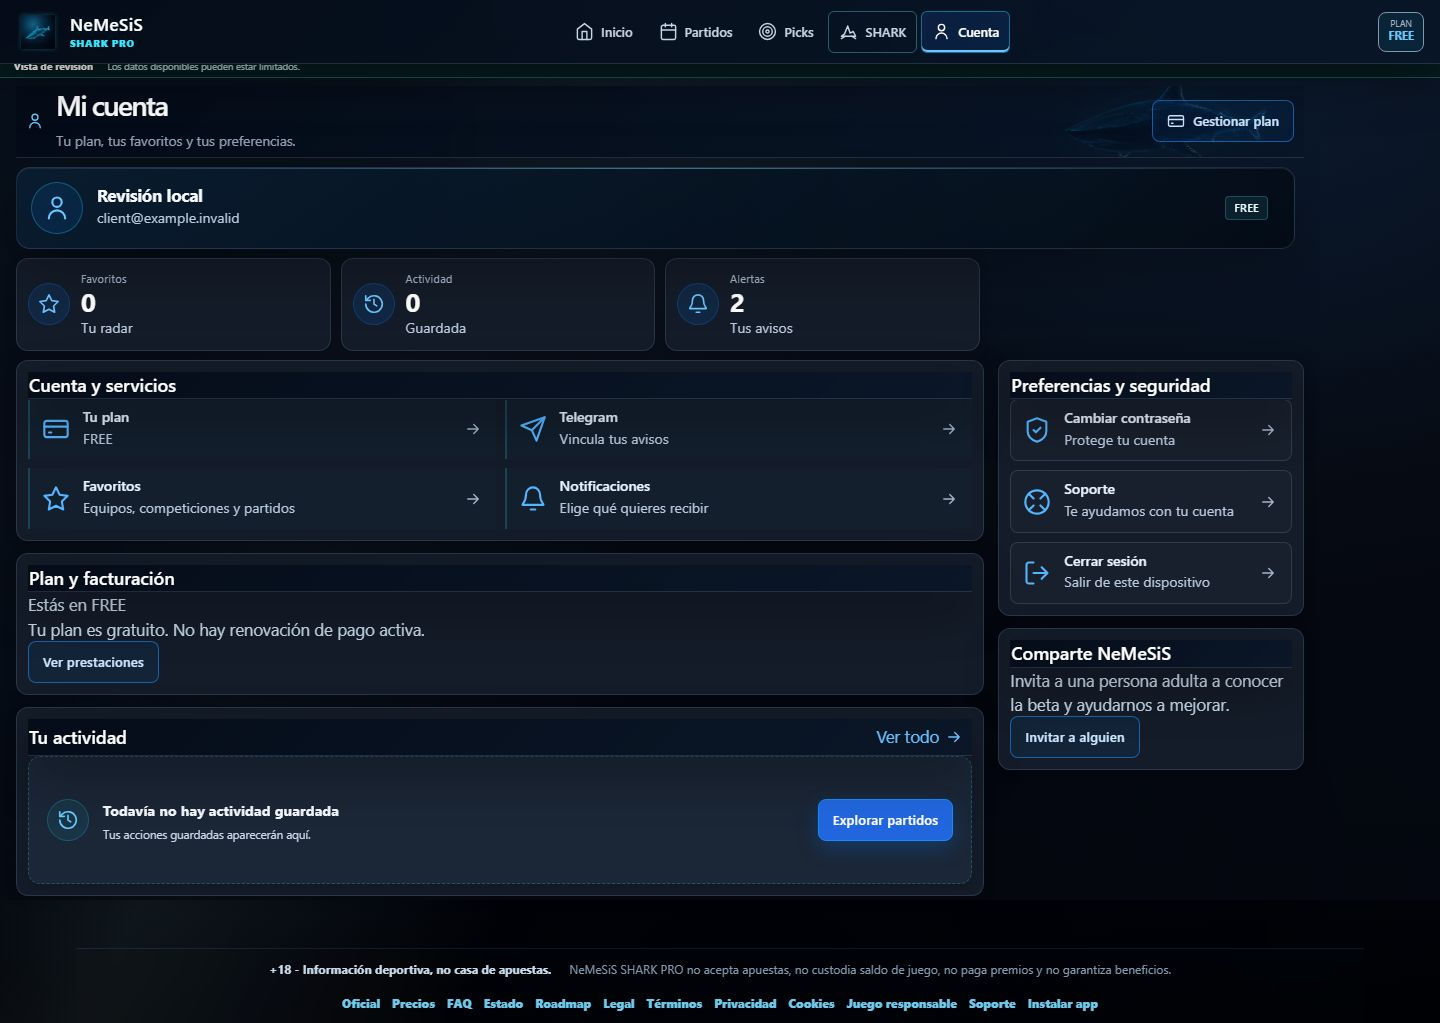
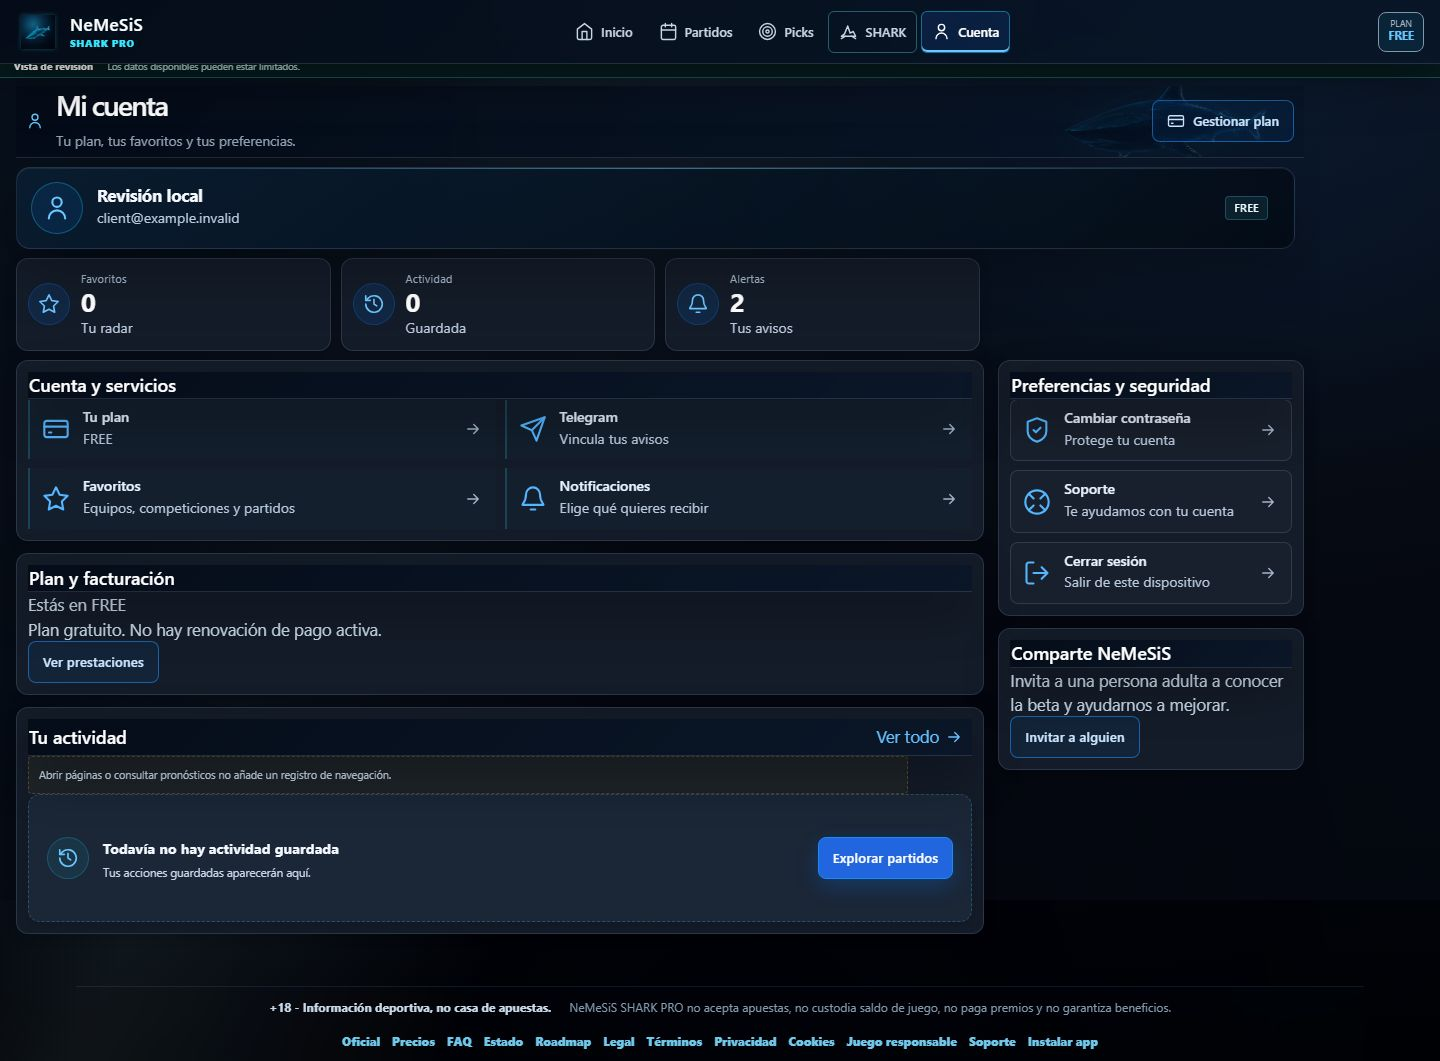
Preserve runtime capability probes and align presentation regression contracts

diff --git a/templates/base.html b/templates/base.html
@@ -71,6 +71,9 @@
 {% set show_mobile_bottom_nav = not is_admin_surface %}
 {% set show_floating_shark = false %}
 {# V929 navigation integrity route recovery #}
+{# Historical capability keys retained for read-only runtime probes; CSS activation belongs exclusively to the Core.
+data-v775-shell data-v776-shell data-v777-shell data-v778-shell data-v790-shell data-v792-shell data-v793-shell data-v795-shell data-v796-shell data-v797-shell data-v798-shell data-v799-shell data-v800-shell data-v801-shell data-v802-shell data-v806-shell data-v807-shell data-v809-shell data-v810-shell data-v811-shell data-v812-shell data-v813-shell data-v814-shell data-v815-shell data-v816-shell data-v817-shell data-v818-shell data-v819-shell data-v820-shell data-v821-shell data-v822-shell data-v823-shell data-v824-shell data-v825-shell data-v826-shell data-v827-shell data-v828-shell data-v829-shell data-v830-shell data-v832-shell data-v833-shell data-v836-shell data-v837-shell data-v838-shell data-v839-shell data-v840-shell data-v841-shell data-v842-shell data-v843-shell data-v844-shell data-v845-shell data-v847-shell data-v848-shell data-v849-shell data-v850-shell data-v851-shell data-v852-shell data-v853-shell data-v854-shell data-v855-shell data-v856-shell data-v857-shell data-v858-shell data-v859-shell data-v860-shell data-v861-shell data-v862-shell data-v863-shell data-v864-shell data-v865-shell data-v866-shell data-v867-shell data-v868-shell data-v869-shell data-v870-shell data-v871-shell data-v872-shell data-v873-shell data-v874-shell data-v875-shell data-v876-shell data-v878-shell data-v879-shell data-v880-shell data-v881-shell data-v882-shell data-v883-shell data-v884-shell data-v885-shell data-v886-shell data-v887-shell data-v888-shell data-v888-autopilot-shell data-v897-shell data-v898-shell data-v899-shell data-v900-shell data-v901-shell data-v902-shell data-v902b-shell data-v903-shell data-v904-shell data-v905-shell data-v906-shell data-v906b-shell data-v907-shell data-v908-shell data-v909-shell data-v910-shell data-v911-shell data-v911-video-admin-fix data-v912-shell data-v912-video-admin-fix data-v913-shell data-v913-browser-qa-truth data-v915-workforce-shell data-v938-operations-shell
+#}
 <body class="ns-app ns-tier-{{ _visual_tier }}{% if current_user %} ns-authenticated{% else %} ns-public{% endif %}{% if is_admin_surface %} ns-admin{% endif %}" data-ns-route="{{ request.path }}" data-ns-plan="{{ _tier_label }}" data-v928-shell="true" data-ns-design="core" data-growth-authenticated="{{ 'true' if current_user and current_user.role != 'ADMIN' else 'false' }}">
   {% if local_safe_mode %}
   <div class="nemesis-local-safe-banner" data-local-safe-banner="true" role="status">

diff --git a/templates/account_center.html b/templates/account_center.html
@@ -26,7 +26,7 @@
         {{ section_header('Cuenta y servicios') }}
         <div class="v933-quick-actions ns16-account-actions">
           {{ quick_action('Tu plan', plan, '/membresias', 'plan', 'gold') }}
-          {{ quick_action('Telegram', 'Vinculado' if telegram.get('linked') else 'Vincula tus avisos', '/telegram', 'telegram') }}
+          {{ quick_action('Telegram', ('Vinculado a @' ~ telegram.get('username')) if telegram.get('linked') and telegram.get('username') else ('Vinculado' if telegram.get('linked') else 'Vincula tus avisos'), '/telegram', 'telegram') }}
           {{ quick_action('Favoritos', 'Equipos, competiciones y partidos', '/favoritos', 'star') }}
           {{ quick_action('Notificaciones', 'Elige qué quieres recibir', '/notificaciones', 'bell') }}
         </div>
@@ -34,8 +34,8 @@
       <section class="v933-panel">
         {{ section_header('Plan y facturación') }}
         <p>{{ client_message(membership.get('headline'), 'Consulta lo que incluye tu plan.') }}</p>
-        {% if plan == 'FREE' %}<p>Tu plan es gratuito. No hay renovación de pago activa.</p>
-        {% elif admin_granted or membership_source == 'admin_manual' %}<p>Tienes un acceso concedido, sin renovación automática de pago.</p>
+        {% if plan == 'FREE' %}<p>Plan gratuito. No hay renovación de pago activa.</p>
+        {% elif admin_granted or membership_source == 'admin_manual' %}<p>Acceso concedido, sin renovación automática de pago.</p>
         {% elif stripe_status %}<p>Suscripción: <strong>{{ stripe_label }}</strong>.</p><p>Renovación: {{ pay.stripe_current_period_end|madrid_datetime_label if pay.stripe_current_period_end else 'Fecha pendiente de confirmar' }}.</p>
         {% else %}<p>No hay una renovación automática asociada a esta cuenta.</p>{% endif %}
         {% if plan != 'FREE' and not admin_granted and membership_source != 'admin_manual' and stripe_status and pay.portal_ready %}
@@ -44,6 +44,7 @@
       </section>
       <section class="v933-panel">
         {{ section_header('Tu actividad', '', 'Ver todo', '/actividad') }}
+        <p class="v933-safe-copy">Abrir páginas o consultar pronósticos no añade un registro de navegación.</p>
         {% if activity %}<div class="v933-truth-list">{% for item in activity[:7] %}<div><span>{{ item.created_at|madrid_datetime_label if item.created_at else 'Reciente' }}</span><strong>{{ client_message(item.label, 'Actividad guardada') }}</strong></div>{% endfor %}</div>
         {% else %}{{ empty_state('Todavía no hay actividad guardada', 'Tus acciones guardadas aparecerán aquí.', 'Explorar partidos', '/calendario', 'history') }}{% endif %}
       </section>

diff --git a/tests/test_design02_calendar_presentation.py b/tests/test_design02_calendar_presentation.py
@@ -124,7 +124,7 @@ def test_mobile_primary_navigation_keeps_shark_and_results(app_module, authentic
 
 def test_sports_styles_use_canonical_sizes_and_version_both_stylesheets():
     root = Path(__file__).resolve().parents[1]
-    css = (root / 'static/v933-product.css').read_text(encoding='utf-8')
+    css = (root / 'static/design-system.css').read_text(encoding='utf-8')
     base = (root / 'templates/base.html').read_text(encoding='utf-8')
     assert 'font-size: var(--score-size)' in css
     assert 'font-size: var(--score-size-compact)' in css
@@ -133,9 +133,10 @@ def test_sports_styles_use_canonical_sizes_and_version_both_stylesheets():
     bundle_link = next(line for line in base.splitlines() if "filename='product-system.css'" in line)
     assert 'data-product-system="premium-1"' in bundle_link
     sources = (root / 'tools/visual_css_sources.json').read_text(encoding='utf-8')
-    assert sources.index('v933_design_tokens.css') < sources.index('v933-product.css')
+    assert sources.index('design-tokens.css') < sources.index('design-system.css')
+    assert 'v933_design_tokens.css' not in sources and 'v933-product.css' not in sources
     realtime_script = next(line for line in base.splitlines() if "filename='v934-realtime.js'" in line)
-    assert '-design-02-r5-1' in realtime_script
+    assert '-client-core-2-directo-inplace-1' in realtime_script
 
 
 @pytest.mark.parametrize('route', ['/calendar', '/calendario', '/calendario-global', '/partidos', '/partidos/calendario'])
@@ -152,7 +153,7 @@ def test_calendar_aliases_share_visible_navigation_state(app_module, route, surf
 
 def test_client_copy_reduction_does_not_hide_temporal_container():
     root = Path(__file__).resolve().parents[1]
-    css = (root / 'static/v933-product.css').read_text(encoding='utf-8')
+    css = (root / 'static/design-system.css').read_text(encoding='utf-8')
     for owner in ('sports-priority-home', 'ns16-home', 'ns16-live', 'v933-calendar-board'):
         rule = next(line for line in css.splitlines() if line.startswith('.' + owner + ' .v933-match-card :is('))
         assert '.v937-confidence-badge' in rule

diff --git a/tests/test_v944_match_center_foundation.py b/tests/test_v944_match_center_foundation.py
@@ -194,8 +194,8 @@ def test_match_detail_page_uses_one_detail_load_and_no_legacy_side_effects(
     assert 'data-match-contract="MATCH-CENTER-LIFECYCLE-STORY-V1"' in html
     assert 'data-v944-match-center-foundation="phase-1"' in html
     assert 'data-sports-domain-model="SPORTS-CORE-UNIFIED-DOMAIN-MODEL-V1"' in html
-    assert 'data-match-region="evidence-quality"' in html
-    assert 'data-match-transparency="score"' in html
+    assert 'data-match-region="evidence-quality"' not in html
+    assert 'data-match-transparency="score"' not in html
     assert html.count("data-match-component=") == len(MATCH_CENTER_COMPONENTS)
     assert "v933-match-hero" not in html
     assert "v933-detail-tabs" not in html
@@ -292,7 +292,7 @@ def test_v944_jinja_contracts_are_valid_and_responsive():
     assert 'data-timeline-event-contract=' in components
     assert 'data-sports-domain-model="unified-v1"' in components
     assert 'data-postmatch-factual-summary=' in components
-    assert 'Resumen factual construido con datos confirmados del partido; sin narración generativa.' in components
+    assert 'Resumen basado en la información confirmada del partido.' in components
     assert all(name in components for name in MATCH_CENTER_COMPONENTS)
     assert all(f"'{state}'" in components for state in CANONICAL_COMPONENT_STATES)
     assert "@media (max-width: 1080px)" in css

diff --git a/tests/test_product_language_clarity.py b/tests/test_product_language_clarity.py
@@ -306,7 +306,7 @@ def test_client_telegram_never_promises_delivery_when_channel_is_not_ready():
     assert "Contenido previsto para tu plan" in text
     assert "Pronósticos premium" not in text
     assert "Pronósticos disponibles" in text
-    assert "Esta pantalla no envía mensajes por sí sola" in text
+    assert "según tu vinculación, tus preferencias y la información disponible para tu plan" in text
     assert "status_chip('Listo' if telegram_ready else 'En espera'" in text
 
 
@@ -423,7 +423,8 @@ def test_final_visible_client_copy_avoids_residual_english_product_jargon():
     assert "Enviar resumen" in imports and "Centro de control" in imports
     assert "antes de cualquier checkout" not in membership and "antes de cualquier pago" in membership
     assert "<span>Onboarding</span>" not in onboarding
-    assert "Primero lo esencial" in onboarding
+    assert "Tu próxima jornada empieza aquí." in onboarding
+    assert "El deporte, a tu manera." in onboarding
 
 def test_founder_header_and_data_copy_stay_plain_spanish():
     founder=read("templates/admin_founder_dashboard.html")

diff --git a/tests/test_get_business_readonly_v941.py b/tests/test_get_business_readonly_v941.py
@@ -650,7 +650,7 @@ def test_account_center_reflects_existing_telegram_link_without_generating_code(
 @pytest.mark.parametrize("plan,source,granted,stripe_status,expected",[
     ("FREE","free_signup",0,"","Plan gratuito"),
     ("PRO","admin_manual",1,"","Acceso concedido"),
-    ("ELITE","stripe",0,"active","Suscripción Stripe: Activa"),
+    ("ELITE","stripe",0,"active","Suscripción: Activa"),
 ])
 def test_account_center_explains_real_plan_origin(app_module,monkeypatch,tmp_path,plan,source,granted,stripe_status,expected):
     a,db=isolated(app_module,monkeypatch,tmp_path)
@@ -671,5 +671,7 @@ def test_account_center_explains_real_plan_origin(app_module,monkeypatch,tmp_pat
     before=snapshot(db)
     response=client.get("/mi-cuenta")
     assert response.status_code==200
-    assert expected in response.get_data(as_text=True)
+    import re
+    visible = re.sub(r'<[^>]+>', '', response.get_data(as_text=True))
+    assert expected in visible
     assert snapshot(db)==before

diff --git a/tests/test_calendar_terminology.py b/tests/test_calendar_terminology.py
@@ -34,6 +34,7 @@ def test_match_specific_language_is_not_globally_replaced():
 def test_calendar_does_not_claim_confirmation_without_source_and_uses_filter_language():
     calendar=(ROOT/"templates/calendar.html").read_text(encoding="utf-8")
     assert "Agenda deportiva confirmada." not in calendar
-    assert "Estado de la agenda deportiva." in calendar
+    assert "Consulta los partidos y sus horarios." in calendar
+    assert "client_message(calendar.get('source_summary')" in calendar
     assert "Limpiar capas" not in calendar
     assert "Limpiar filtros" in calendar

diff --git a/reports/redesign-20261004/REVIEW.md b/reports/redesign-20261004/REVIEW.md
@@ -46,7 +46,7 @@ El antes procede de las plantillas y CSS inmutables de `b7e8aea1`, con la misma 
 
 ## Pruebas ejecutadas
 
-- **318 pruebas únicas superadas**, 0 fallos/errores: Core, referencias, Home, Madrid Time, Jinja/contratos, sesiones concurrentes, acceso, membresías, límites SHARK, Sports Truth, Founder, Telegram en preview seguro y backups. Las repeticiones se deduplican por caso.
+- **497 pruebas únicas superadas**, 0 fallos/errores: Core, referencias, Home, Madrid Time, Jinja/contratos, sesiones concurrentes, acceso, membresías, límites SHARK, Sports Truth, Founder, Telegram en preview seguro y backups. Las repeticiones se deduplican por caso.
 - **155 capturas finales** de 31 rutas en cinco tamaños; **54 capturas históricas** PC/tablet/móvil. Las últimas capturas específicas sustituyen las anteriores de Home, SHARK y Match Center tras la limpieza de copy.
 - En la matriz final: 0 overflow horizontal de página, 0 IDs duplicados, 0 errores JavaScript, 0 imágenes rotas visibles, 0 respuestas 5xx y 0 términos técnicos detectados por el escáner de texto cliente. Encabezados y textos de marcador comprobados por geometría.
 - `/match/unavailable` devuelve 404 deliberadamente con una pantalla legible. Las demás rutas examinadas responden 200.
@@ -98,3 +98,7 @@ No hay mejora universal de latencia: Live, Combinadas y algunas superficies admi
 5. **Publicación:** rama y PR separados para revisión; ningún merge/deploy, pago o envío real autorizado/ejecutado. El PR se crea draft con `[skip preview]` para evitar previews automáticos de Render ([documentación oficial](https://render.com/docs/service-previews)).
 
 Las carpetas anteriores after/before/evidence/final/founder y css-comparison.json son evidencias de una fase parcial, conservadas como histórico. La aceptación final usa exclusivamente screenshots/, GALLERY.html, route-performance.json, tests.xml y evidence-summary.json.
+
+## Contratos conservados tras CI
+
+Los probes operativos que detectan capacidades leyendo claves históricas de base.html conservan esas claves en un registro Jinja no renderizado. No vuelven a activar CSS ni se altera la lógica de cierre. Cuenta conserva el usuario de Telegram vinculado y la explicación de privacidad de actividad. Las pruebas anteriores que exigían textos Stripe/técnicos o diagnósticos visibles en cliente se actualizan al lenguaje y a la separación acordados, manteniendo las comprobaciones de lecturas únicas, permisos y ausencia de escrituras. La suite local ampliada reúne 497 pruebas únicas superadas.
